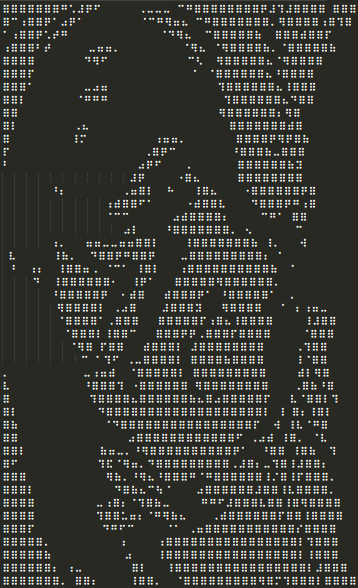
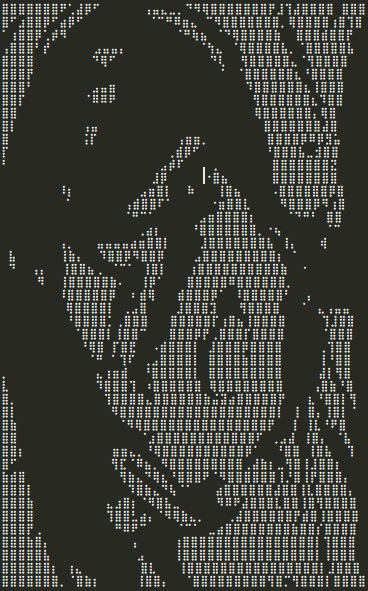
Add files via upload

diff --git a/a.py b/a.py
@@ -1,33 +1,44 @@
-#coding=utf-8
+# coding=utf-8
 from PIL import Image
 import numpy as np
 import sys
 import os
 import cv2
+
 if __name__ == '__main__':
     in_file = sys.argv[1]
     out_file = sys.argv[2]
-    height =int(sys.argv[3])
-    width =int(sys.argv[4])
-    blurKsize=int(sys.argv[5])
+    height = int(sys.argv[3])
+    width = int(sys.argv[4])
+    blurKsize = int(sys.argv[5])
 
-    img=cv2.imread(in_file)
-    img=cv2.cvtColor(img,cv2.COLOR_BGR2GRAY)
-    img=cv2.equalizeHist(img)
-    img=cv2.GaussianBlur(img,(blurKsize,blurKsize),0)
-    img=cv2.resize(img,(width*2, height*3))
-    cv2.imwrite('gray.jpg',img)
-    th,img=cv2.threshold(img,127,255,cv2.THRESH_BINARY)
-    cv2.imwrite('binary.jpg',img)
-    img=img/255
-    ch =np.array([' ', '⠁', '⠂', '⠃', '⠄', '⠅', '⠆', '⠇', '⠈', '⠉', '⠊', '⠋', '⠌', '⠍', '⠎', '⠏', '⠐', '⠑', '⠒', '⠓', '⠔', '⠕',
-         '⠖', '⠗', '⠘', '⠙', '⠚', '⠛', '⠜', '⠝', '⠞', '⠟', '⠠', '⠡', '⠢', '⠣', '⠤', '⠥', '⠦', '⠧', '⠨', '⠩', '⠪', '⠫',
-         '⠬', '⠭', '⠮', '⠯', '⠰', '⠱', '⠲', '⠳', '⠴', '⠵', '⠶', '⠷', '⠸', '⠹', '⠺', '⠻', '⠼', '⠽', '⠾', '⠿','\n'],np.str)
-    img=img[0::3,0::2]+img[1::3,0::2]*2+img[2::3,0::2]*4+img[0::3,1::2]*8+img[1::3,1::2]*16+img[2::3,1::2]*32
-    img=np.insert(img,width,64,-1)
-    img=np.array(img,np.int)
-    res=ch[img]
-    res=np.reshape(res,(-1))
+    img = cv2.imread(in_file)
+    img = cv2.cvtColor(img, cv2.COLOR_BGR2GRAY)
+    img = cv2.equalizeHist(img)
+    img = cv2.GaussianBlur(img, (blurKsize, blurKsize), 0)
+    img = cv2.resize(img, (width * 2, height * 4))
+    cv2.imwrite('gray.jpg', img)
+    th, img = cv2.threshold(img, 127, 255, cv2.THRESH_BINARY)
+    cv2.imwrite('binary.jpg', img)
+    img = img / 255
+    ch = np.array(
+        [' ', '⠁', '⠂', '⠃', '⠄', '⠅', '⠆', '⠇', '⡀', '⡁', '⡂', '⡃', '⡄', '⡅', '⡆', '⡇', '⠈', '⠉', '⠊', '⠋', '⠌', '⠍',
+         '⠎', '⠏', '⡈', '⡉', '⡊', '⡋', '⡌', '⡍', '⡎', '⡏', '⠐', '⠑', '⠒', '⠓', '⠔', '⠕', '⠖', '⠗', '⡐', '⡑', '⡒', '⡓',
+         '⡔', '⡕', '⡖', '⡗', '⠘', '⠙', '⠚', '⠛', '⠜', '⠝', '⠞', '⠟', '⡘', '⡙', '⡚', '⡛', '⡜', '⡝', '⡞', '⡟', '⠠', '⠡',
+         '⠢', '⠣', '⠤', '⠥', '⠦', '⠧', '⡠', '⡡', '⡢', '⡣', '⡤', '⡥', '⡦', '⡧', '⠨', '⠩', '⠪', '⠫', '⠬', '⠭', '⠮', '⠯',
+         '⡨', '⡩', '⡪', '⡫', '⡬', '⡭', '⡮', '⡯', '⠰', '⠱', '⠲', '⠳', '⠴', '⠵', '⠶', '⠷', '⡰', '⡱', '⡲', '⡳', '⡴', '⡵',
+         '⡶', '⡷', '⠸', '⠹', '⠺', '⠻', '⠼', '⠽', '⠾', '⠿', '⡸', '⡹', '⡺', '⡻', '⡼', '⡽', '⡾', '⡿', '⢀', '⢁', '⢂', '⢃',
+         '⢄', '⢅', '⢆', '⢇', '⣀', '⣁', '⣂', '⣃', '⣄', '⣅', '⣆', '⣇', '⢈', '⢉', '⢊', '⢋', '⢌', '⢍', '⢎', '⢏', '⣈', '⣉',
+         '⣊', '⣋', '⣌', '⣍', '⣎', '⣏', '⢐', '⢑', '⢒', '⢓', '⢔', '⢕', '⢖', '⢗', '⣐', '⣑', '⣒', '⣓', '⣔', '⣕', '⣖', '⣗',
+         '⢘', '⢙', '⢚', '⢛', '⢜', '⢝', '⢞', '⢟', '⣘', '⣙', '⣚', '⣛', '⣜', '⣝', '⣞', '⣟', '⢠', '⢡', '⢢', '⢣', '⢤', '⢥',
+         '⢦', '⢧', '⣠', '⣡', '⣢', '⣣', '⣤', '⣥', '⣦', '⣧', '⢨', '⢩', '⢪', '⢫', '⢬', '⢭', '⢮', '⢯', '⣨', '⣩', '⣪', '⣫',
+         '⣬', '⣭', '⣮', '⣯', '⢰', '⢱', '⢲', '⢳', '⢴', '⢵', '⢶', '⢷', '⣰', '⣱', '⣲', '⣳', '⣴', '⣵', '⣶', '⣷', '⢸', '⢹',
+         '⢺', '⢻', '⢼', '⢽', '⢾', '⢿', '⣸', '⣹', '⣺', '⣻', '⣼', '⣽', '⣾', '⣿', '\n'], np.str)
+    img = img[0::4, 0::2] + img[1::4, 0::2]*2 + img[2::4, 0::2]*4 + img[3::4, 0::2]*8 + img[0::4, 1::2]*16 + img[1::4, 1::2]*32 + img[2::4, 1::2]*64 + img[3::4, 1::2] *128
+    img = np.insert(img, width, 256, -1)
+    img = np.array(img, np.int)
+    res = ch[img]
+    res = np.reshape(res, (-1))
 
-    with open(out_file,'w',encoding='utf-8')as f:
+    with open(out_file, 'w', encoding='utf-8')as f:
         f.writelines(res)

diff --git a/test.py b/test.py
@@ -1,0 +1,17 @@
+#coding=utf-8
+from PIL import Image
+import numpy as np
+import sys
+import os
+import cv2
+a=[bytearray(b'\xe2\xa0\x80'),bytearray(b'\xe2\xa1\x80'),bytearray(b'\xe2\xa2\x80'),bytearray(b'\xe2\xa3\x80')]
+for i in range(256):
+    d3=(i&8)>>3
+    d7=(i&128)>>7
+    d46=(i&112)>>1
+    d02=(i&7)
+    idx1=d46+d02
+    idx2=(d7<<1)+d3
+    b=a[idx2].copy()
+    b[2]+=idx1
+    print('\'{:}\''.format(str(b,encoding='utf-8')),end=',')
